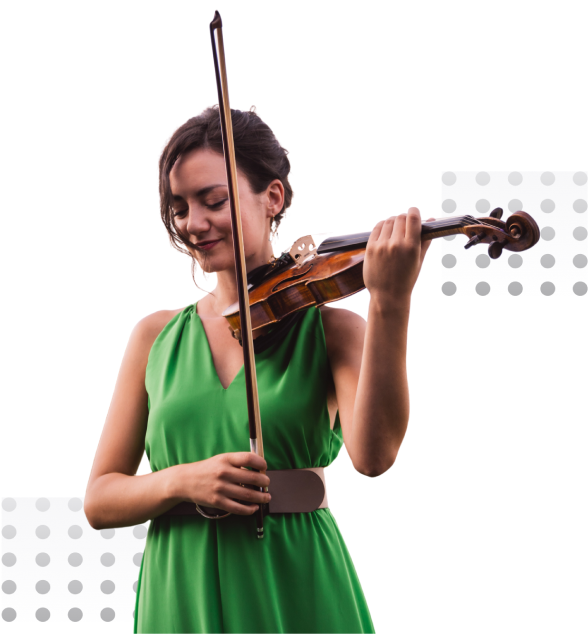
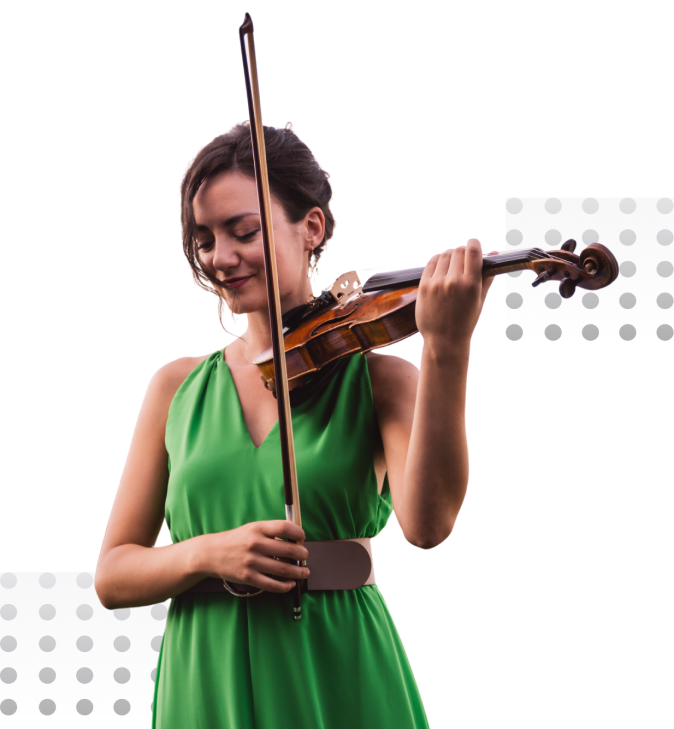
Pushed from Locofy Builder

diff --git a/components/ActionCall.module.css b/components/ActionCall.module.css
@@ -62,7 +62,7 @@
   display: none;
   padding: 0 0 var(--padding-15xl);
   text-align: center;
-  font-size: var(--font-size-15xl);
+  font-size: var(--font-size-21xl);
   color: var(--color-gray-300);
   font-family: var(--font-inter);
 }

diff --git a/pages/global.css b/pages/global.css
@@ -22,8 +22,8 @@ body {
   --font-size-9xl: 28px;
   --font-size-mini: 15px;
   --font-size-lgi-2: 19.2px;
-  --font-size-33xl: 52px;
   --font-size-21xl: 40px;
+  --font-size-33xl: 52px;
 
   /* Colors */
   --color-white: #fff;

diff --git a/components/HeroSection.module.css b/components/HeroSection.module.css
@@ -61,8 +61,8 @@
   object-fit: cover;
 }
 .imageIcon1 {
-  width: 293.2px;
-  height: 316.7px;
+  width: 337px;
+  height: 364px;
   display: none;
 }
 .heroSection,
